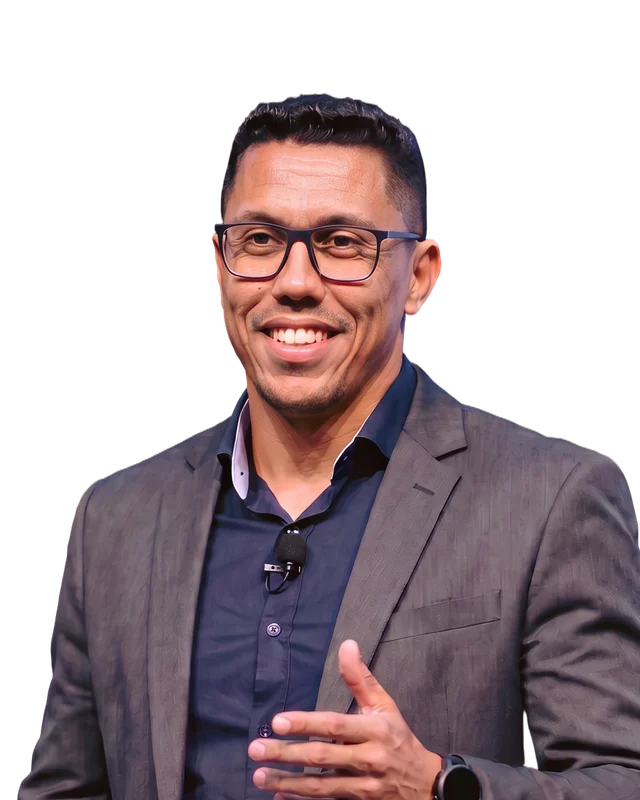
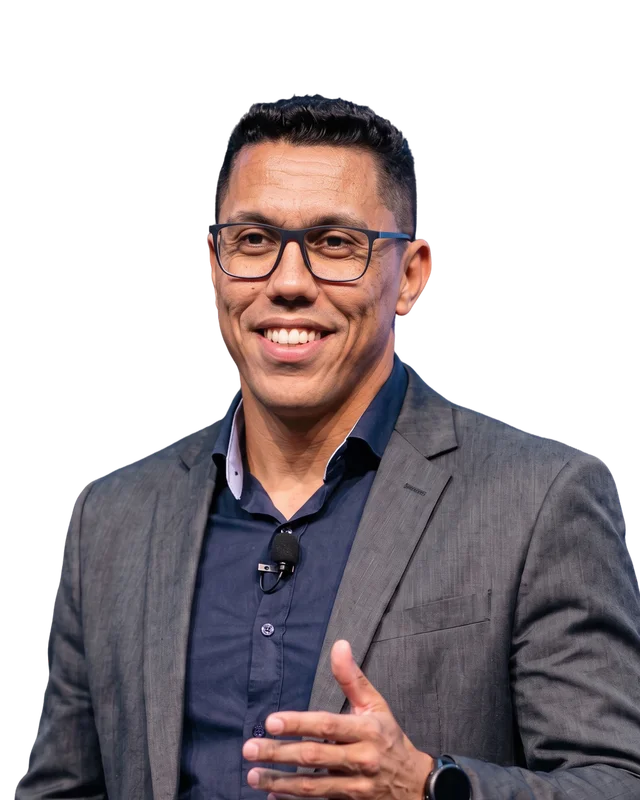
Convenção 2026: nova foto do Edilson e PMG na fileira de baixo

diff --git a/public/convencao-2026/index.html b/public/convencao-2026/index.html
@@ -526,16 +526,16 @@ footer{position:relative;z-index:2;overflow:hidden;padding:clamp(60px,8vw,110px)
 .spk .panel{position:absolute;inset:22% 0 0;border-radius:24px;overflow:hidden;border:1px solid var(--line);background:linear-gradient(170deg,#4A1426 0%,#2B0714 70%);z-index:-1}
 .spk .panel::before{content:"";position:absolute;left:50%;top:22%;width:120%;aspect-ratio:1;transform:translate(-50%,-50%);border-radius:50%;background:radial-gradient(circle,rgba(255,122,47,.55) 0%,rgba(255,79,56,.18) 38%,transparent 66%);transition:opacity .6s,transform .8s var(--ease)}
 .spk .panel::after{content:"";position:absolute;inset:0;background:repeating-linear-gradient(115deg,rgba(246,223,196,.035) 0 1px,transparent 1px 14px)}
-.spk .big{position:absolute;left:0;right:0;top:25%;text-align:center;font:800 clamp(80px,9vw,140px)/.8 var(--display);text-transform:uppercase;color:transparent;-webkit-text-stroke:1.2px rgba(246,223,196,.16);white-space:nowrap;overflow:hidden;z-index:-1;pointer-events:none}
+.spk .big{display:none;position:absolute;left:0;right:0;top:25%;text-align:center;font:800 clamp(80px,9vw,140px)/.8 var(--display);text-transform:uppercase;color:transparent;-webkit-text-stroke:1.2px rgba(246,223,196,.16);white-space:nowrap;overflow:hidden;z-index:-1;pointer-events:none}
 .spk .num{position:absolute;top:calc(22% + 18px);left:20px;font:600 11px/1 var(--sans);letter-spacing:.3em;color:var(--amber)}
 .spk .tag{position:absolute;top:calc(22% + 14px);right:16px;padding:6px 12px;border-radius:999px;background:var(--grad);color:#2B0714;font:700 10px/1 var(--sans);letter-spacing:.22em;text-transform:uppercase}
-.spk .ph{position:relative;aspect-ratio:4/5;margin:0 auto;width:100%;-webkit-mask-image:linear-gradient(#000 74%,transparent 98%);mask-image:linear-gradient(#000 74%,transparent 98%)}
+.spk .ph{position:relative;aspect-ratio:4/5;margin:0 auto;width:100%;-webkit-mask-image:linear-gradient(#000 88%,transparent 100%);mask-image:linear-gradient(#000 88%,transparent 100%)}
 .spk .ph img{width:100%;height:100%;object-fit:contain;object-position:bottom;display:block;filter:saturate(1.04) contrast(1.03);transition:transform .9s var(--ease)}
 .spk .ph svg{position:absolute;left:50%;bottom:10%;width:46%;transform:translateX(-50%);opacity:.3}
-.spk .info{position:relative;margin-top:-14%;padding:0 22px 24px;text-align:center}
+.spk .info{position:relative;margin-top:0;padding:18px 22px 24px;text-align:center;background:linear-gradient(180deg,rgba(43,7,20,.0),rgba(43,7,20,.55) 30%);border-radius:0 0 24px 24px}
 .spk .nm{margin:0;font:800 clamp(26px,2.4vw,36px)/.95 var(--display);text-transform:uppercase}
 .spk .line{display:block;width:34px;height:2px;margin:12px auto;background:var(--grad);border-radius:2px;transition:width .6s var(--ease)}
-.spk .co{margin:0;font-size:11.5px;letter-spacing:.28em;text-transform:uppercase;color:var(--dim)}
+.spk .co{margin:0;font-size:11px;letter-spacing:.16em;text-transform:uppercase;color:var(--dim)}
 .spk .co b{color:var(--cream);font-weight:600}
 .spk:hover .ph img{transform:translateY(-10px) scale(1.03)}
 .spk:hover .panel::before{transform:translate(-50%,-50%) scale(1.12)}
